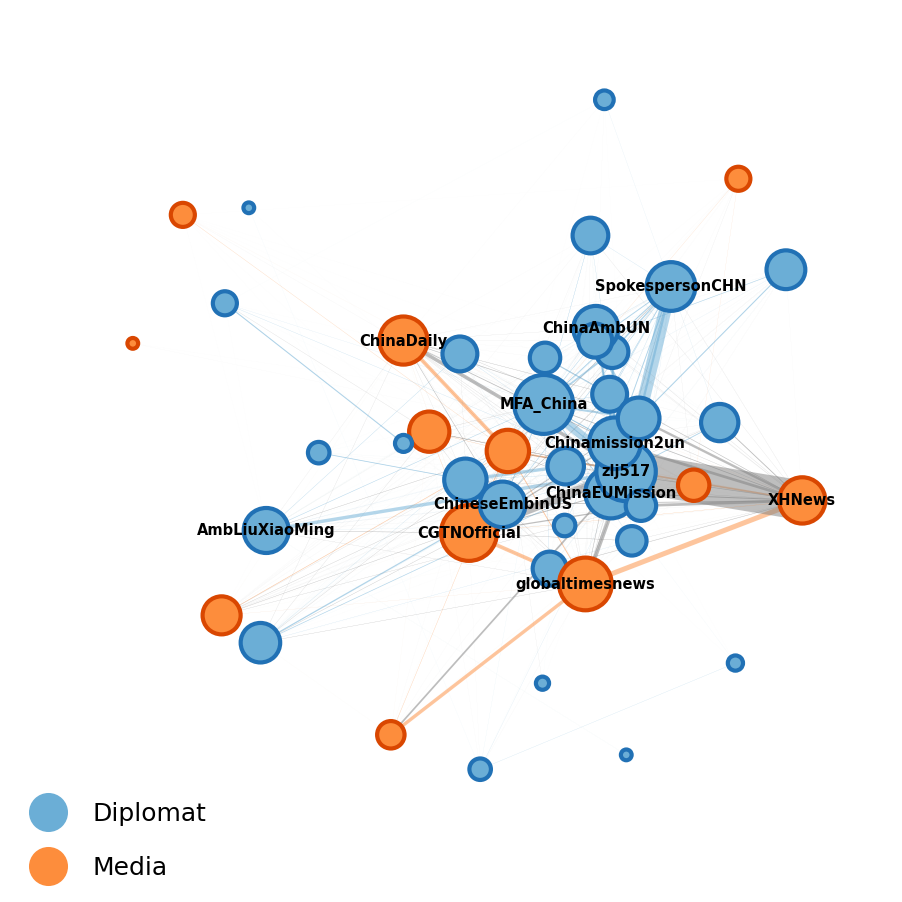
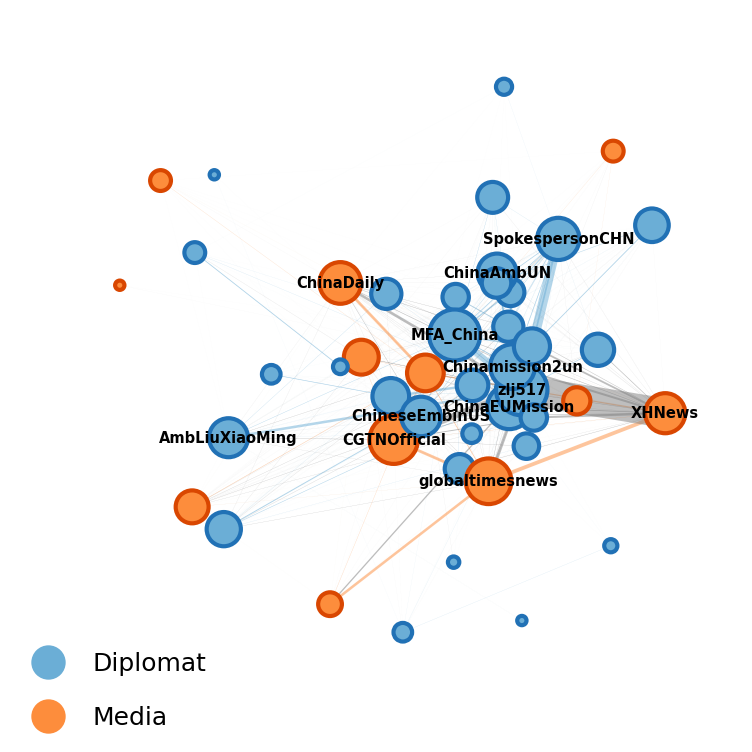
more tweaks

diff --git a/networks/src/network_main.py b/networks/src/network_main.py
@@ -105,7 +105,7 @@ def plot_network(G, color_dct, node_color, nodeedge_color, edge_color, labeldict
     '''
 
     # setup 
-    fig, ax = plt.subplots(figsize=(3, 3), dpi=300, facecolor='w', edgecolor='k')
+    fig, ax = plt.subplots(figsize=(2.5, 2.5), dpi=300, facecolor='w', edgecolor='k')
     plt.axis("off")
 
     # position & manual tweaking
@@ -118,7 +118,7 @@ def plot_network(G, color_dct, node_color, nodeedge_color, edge_color, labeldict
     edge_width =  [x/edge_divisor for x in edge_width_lst]
 
     # draw it 
-    nx.draw_networkx_nodes(G, pos, node_size=node_size, node_color=node_color, edgecolors = nodeedge_color) #, node_size = node_size, node_color = node_color)
+    nx.draw_networkx_nodes(G, pos, node_size=node_size, node_color=node_color, edgecolors = nodeedge_color, linewidths=0.3) #, node_size = node_size, node_color = node_color)
     nx.draw_networkx_edges(G, pos, width = edge_width, alpha = 0.5, edge_color = edge_color, arrows=False)
 
     # labels 
@@ -206,8 +206,8 @@ def main(n_labels, infile, outfolder):
 
     ''' mentions '''
     print('--> generating mentions plot')
-    node_divisor = 600*6
-    edge_divisor = 100*6
+    node_divisor = 600*8
+    edge_divisor = 100*8
     title = 'Diplomats and Media sub-network (nodesize: total number of mentions)'
     filename = 'network_focus_mentions'
     nudge_triple = [
@@ -236,8 +236,8 @@ def main(n_labels, infile, outfolder):
 
     ## unweighted degree
     print('--> generating unweighted degree plot')
-    node_divisor = 0.05*6
-    edge_divisor = 100*6
+    node_divisor = 0.05*8
+    edge_divisor = 100*8
     title = 'Diplomats and Media sub-network (nodesize: number of neighbors)'
     filename = 'network_focus_unweighted_degree'
 
@@ -261,8 +261,8 @@ def main(n_labels, infile, outfolder):
 
     ## weighted degree 
     print('--> generating weighted degree plot')
-    node_divisor = 2.5*6
-    edge_divisor = 100*6
+    node_divisor = 2.5*8
+    edge_divisor = 100*8
     title = 'Diplomats and Media sub-network (nodesize: number of neighbors weighted)'
     filename = 'network_focus_weighted_degree'
 
@@ -286,8 +286,8 @@ def main(n_labels, infile, outfolder):
 
     ''' in-degree '''
     print('--> generating in-degree plot')
-    node_divisor = 1.5*6
-    edge_divisor = 100*6
+    node_divisor = 1.5*8
+    edge_divisor = 100*8
     title = 'Diplomats and Media sub-network (nodesize: in-degree -- inwards)'
     filename = 'network_focus_in_degree'
 
@@ -311,8 +311,8 @@ def main(n_labels, infile, outfolder):
 
     ## out-degree
     print('--> generating out-degree plot')
-    node_divisor = 1.5*6
-    edge_divisor = 100*6
+    node_divisor = 1.5*8
+    edge_divisor = 100*8
     title = 'Diplomats and Media sub-network (nodesize: out-degree -- outwards)'
     filename = 'network_focus_out_degree'
 
